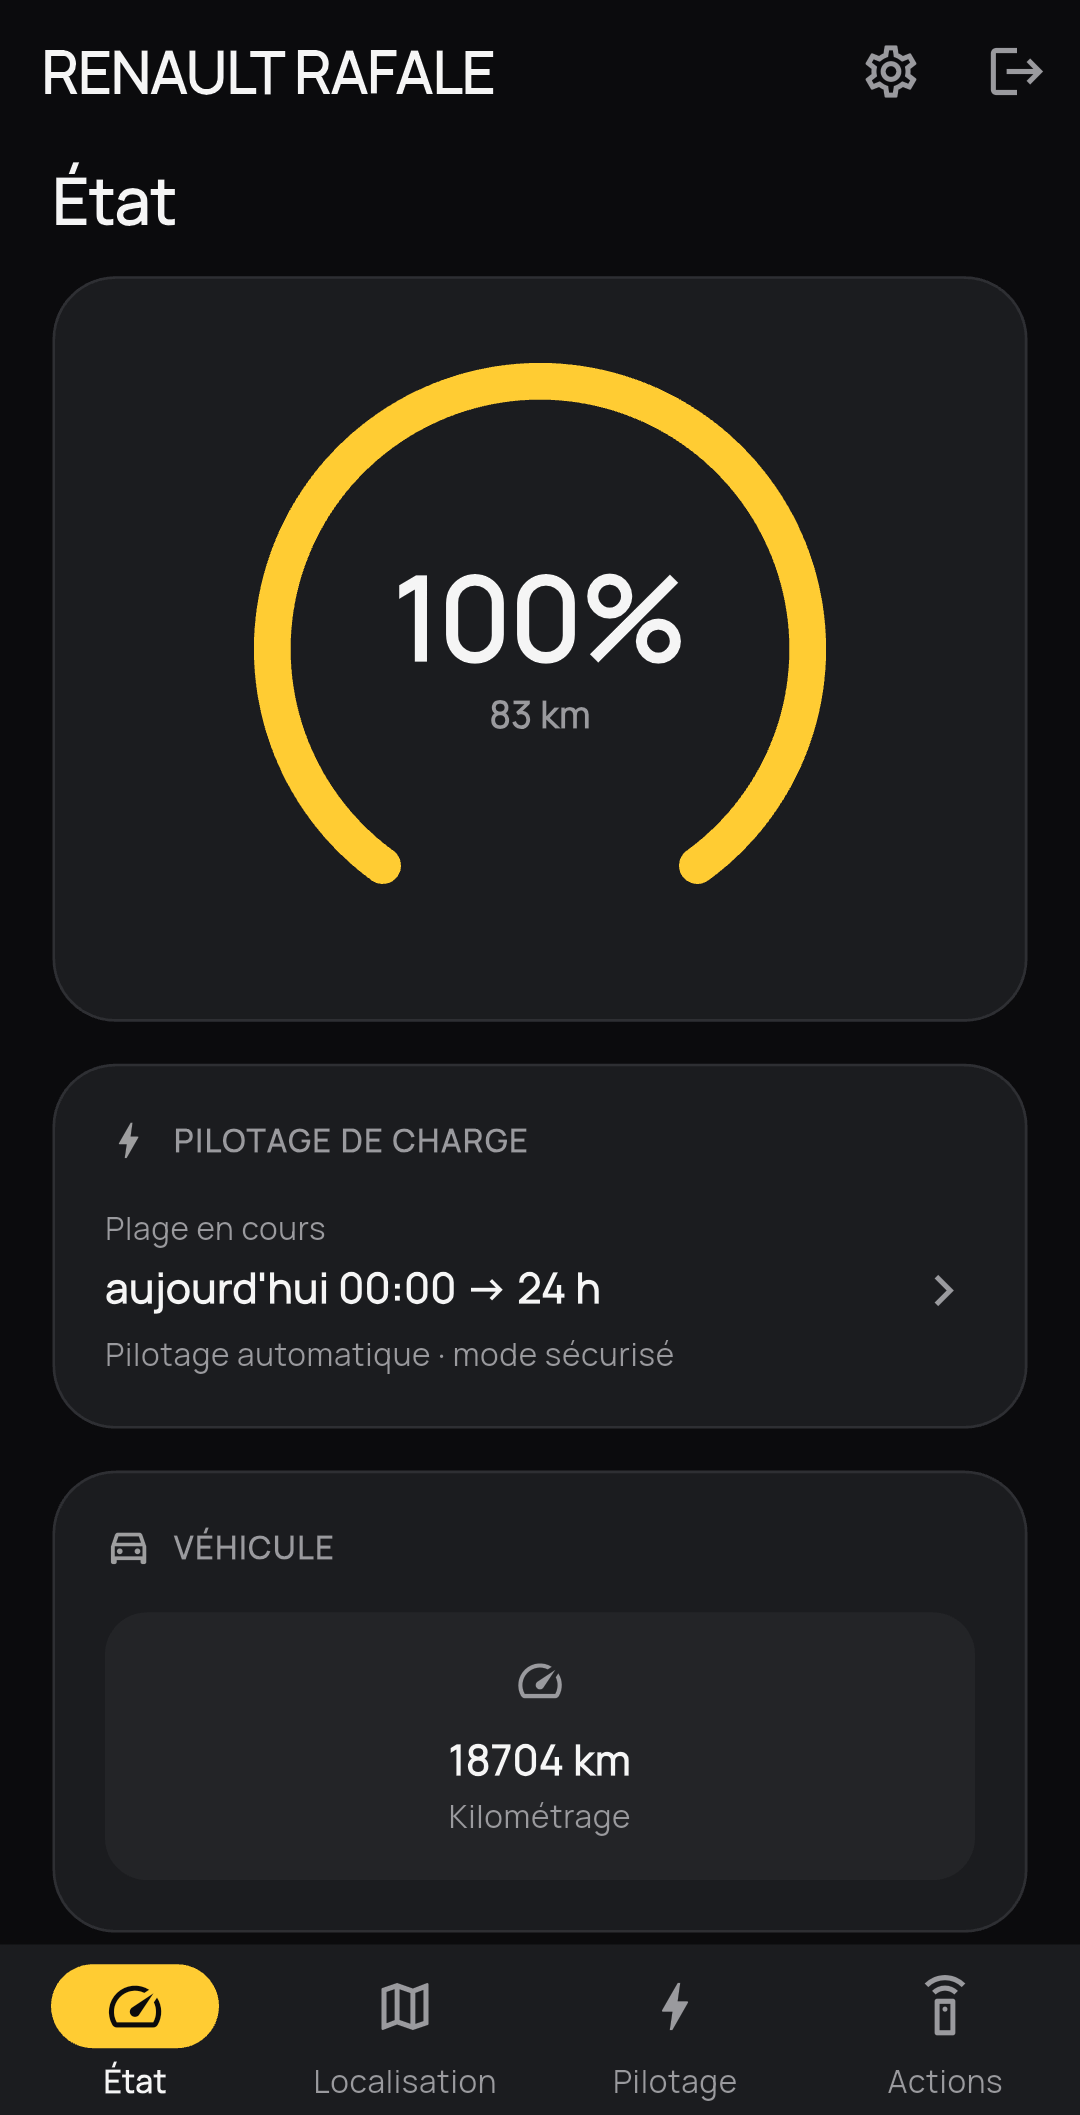
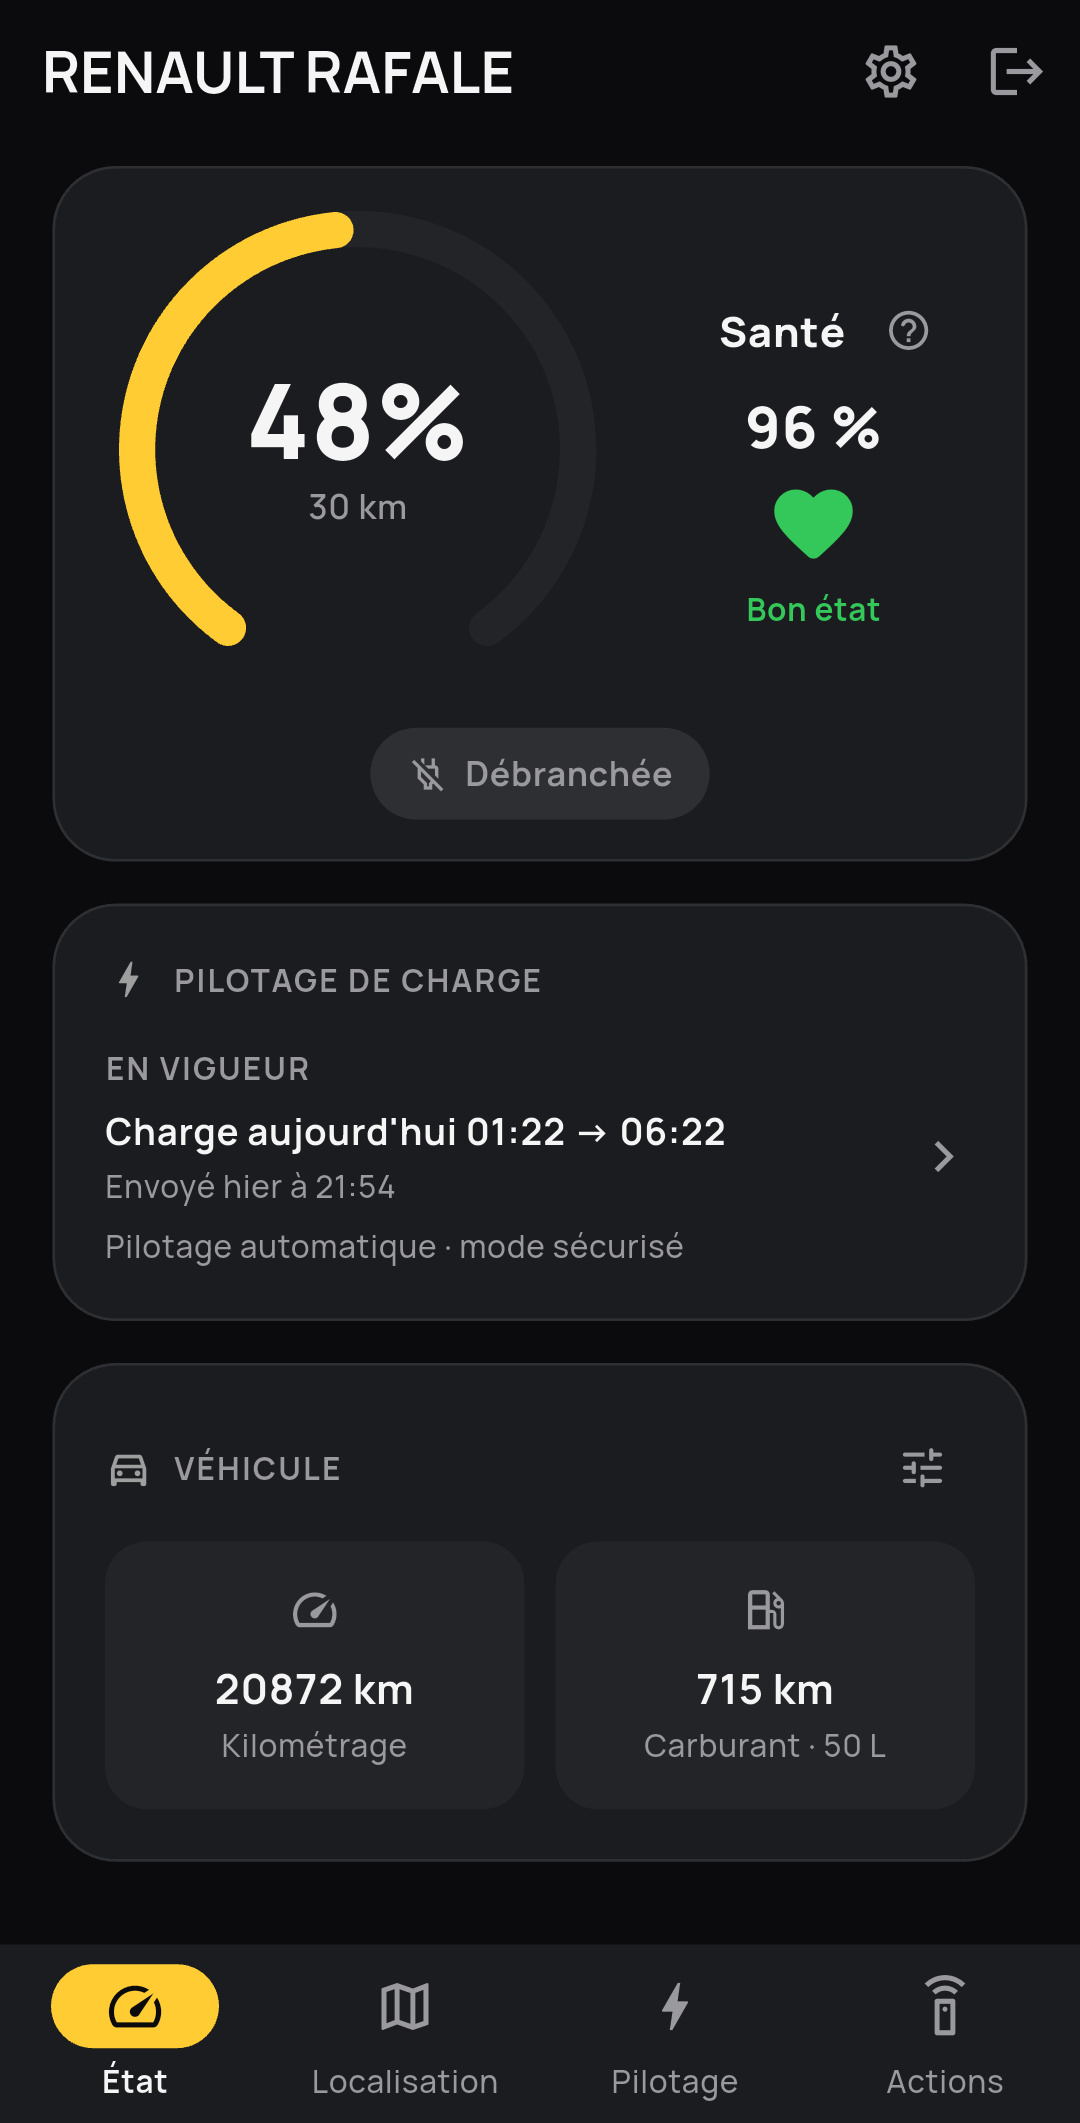
Captures d'ecran a jour (README et fiche store)
Etat (avec la sante de la batterie), Pilotage, Reglages et agenda, prises
sur la version 0.5.0.

diff --git a/README.md b/README.md
@@ -49,7 +49,7 @@ voiture, avant chaque plage, la plage de charge qui convient.
 ## Aperçu
 
 <p align="center">
-  <img src="docs/screenshots/etat.png" width="23%" alt="Onglet État : batterie et résumé du pilotage">
+  <img src="docs/screenshots/etat.png" width="23%" alt="Onglet État : batterie, santé de la batterie et résumé du pilotage">
   <img src="docs/screenshots/pilotage.png" width="23%" alt="Onglet Pilotage : charge pilotée et pilotage automatique">
   <img src="docs/screenshots/reglages.png" width="23%" alt="Réglages : plages d'heures creuses par jour et délai d'envoi">
   <img src="docs/screenshots/agenda.png" width="23%" alt="Agenda d'objectifs « prête à X % » par jour">
